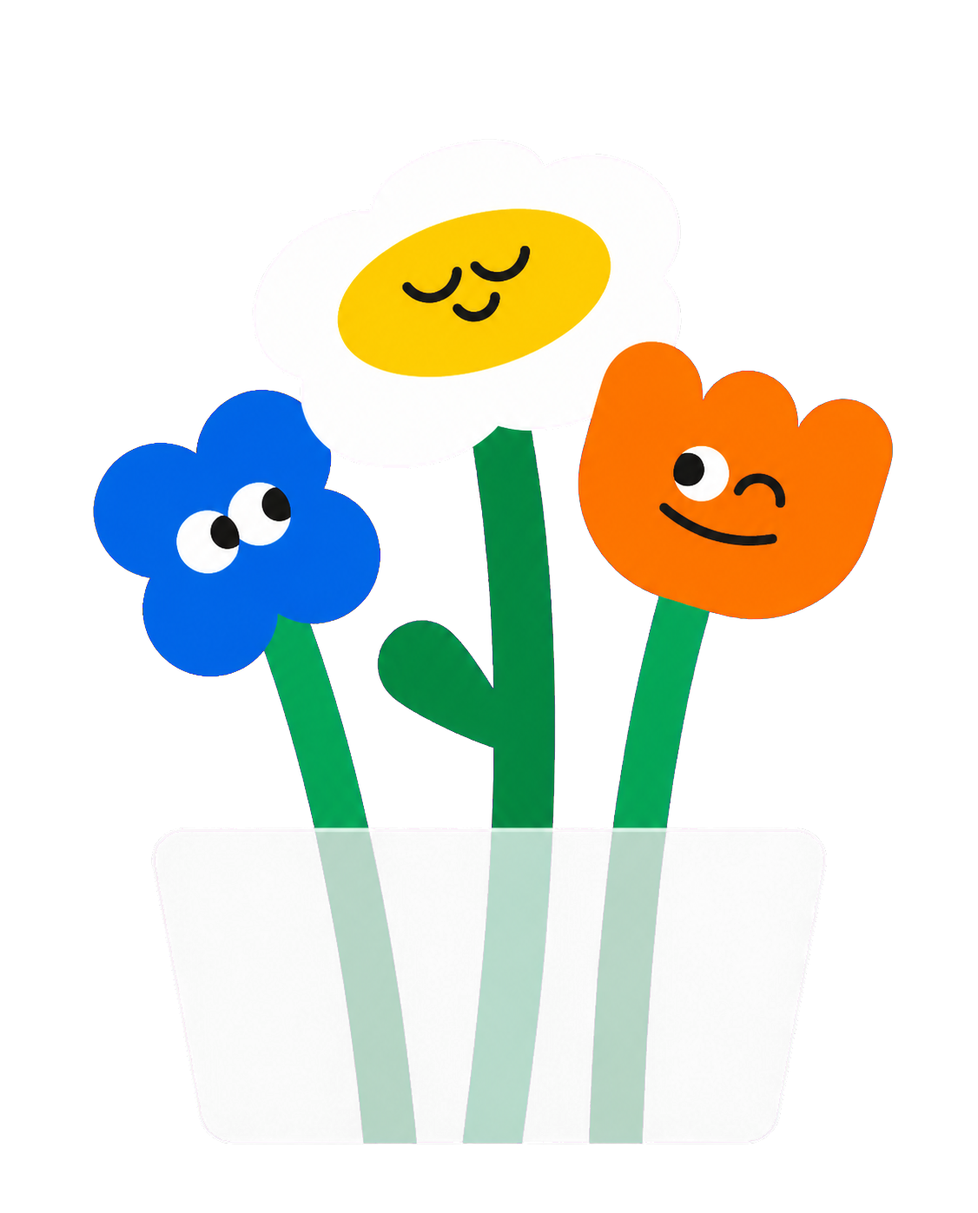
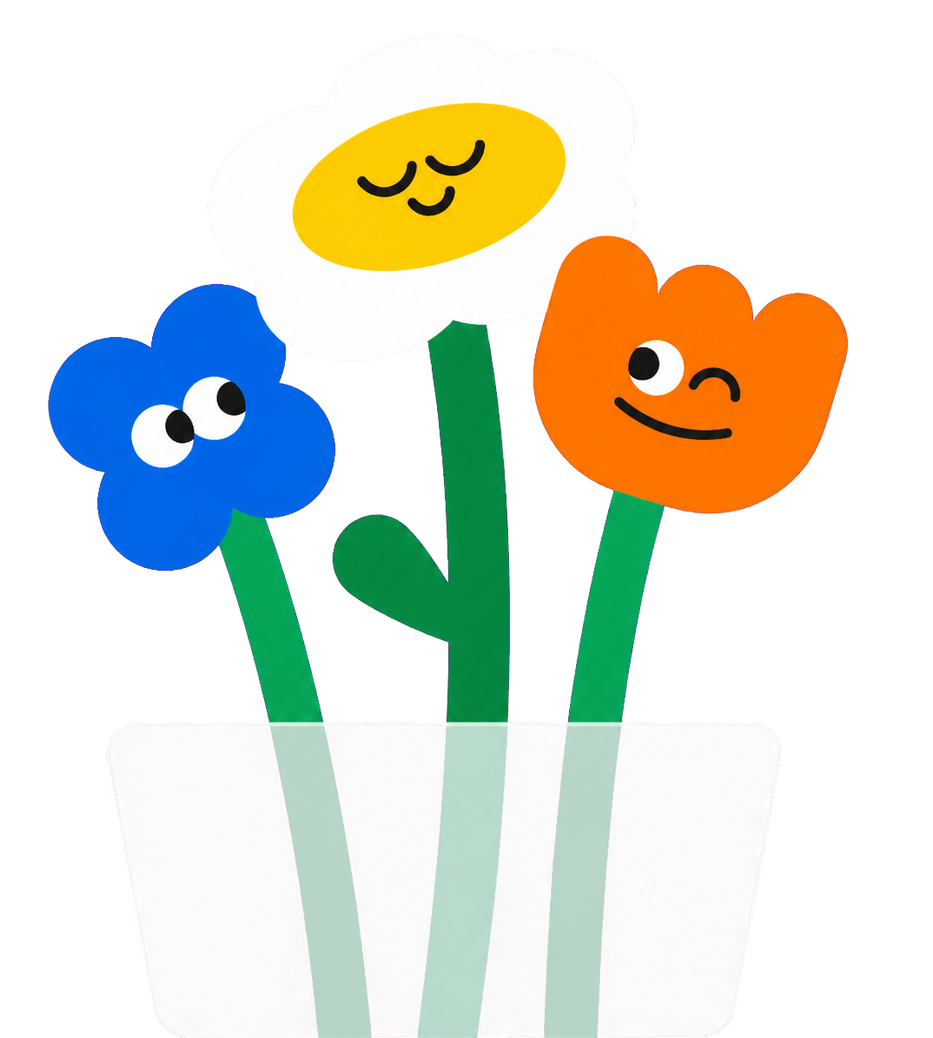
index

Changed region(s): [[0.0307, 0.0929, 0.9218, 1.0]]

diff --git a/index.html b/index.html
@@ -5,23 +5,21 @@
   <link rel="manifest" href="manifest.webmanifest"><link rel="icon" href="icon.png" type="image/png"><link rel="apple-touch-icon" href="icon.png">
   <title>IELTI · 今日学习</title>
   <script>document.documentElement.classList.add('ielti-booting');try{var m=localStorage.getItem('ielti_display_mode_v1')||localStorage.getItem('ielti_theme_v1');if(['light','dark','eink'].indexOf(m)>-1){document.documentElement.dataset.display=m;document.documentElement.dataset.theme=m==='dark'?'dark':'light';document.documentElement.classList.toggle('eink-mode',m==='eink');}}catch(e){}setTimeout(()=>document.documentElement.classList.remove('ielti-booting'),1200);</script>
-<link rel="stylesheet" href="apple-ui.css?v=20260729-31">
+<link rel="stylesheet" href="apple-ui.css?v=20260730-33">
   <link rel="stylesheet" href="eink-ui.css?v=20260728-5">
   <style>
     *{box-sizing:border-box}body{margin:0;font:15px/1.5 system-ui,-apple-system,"PingFang SC",sans-serif}.wrap{max-width:1050px;margin:auto;padding:32px 20px 92px}.top{display:flex;align-items:flex-end;justify-content:space-between;gap:1rem;margin:0 0 1.4rem}.eyebrow{font-size:.72rem;letter-spacing:.15em;color:var(--apple-blue);font-weight:850}.top h1{margin:.2rem 0 .35rem;font-size:clamp(2.45rem,7vw,4.6rem);line-height:.96;letter-spacing:-.055em;font-weight:780}.date{color:var(--apple-secondary);font-size:.92rem}.hero{position:relative;overflow:hidden;display:grid;grid-template-columns:minmax(0,1.25fr) minmax(18rem,.75fr);gap:1rem;padding:1.25rem;border:1px solid var(--apple-line);border-radius:2rem;background:linear-gradient(145deg,color-mix(in srgb,var(--apple-blue) 7%,var(--apple-surface)),var(--apple-surface) 56%,color-mix(in srgb,var(--apple-green) 4%,var(--apple-surface)));box-shadow:var(--apple-shadow)}.hero h2{margin:0 0 .45rem;font-size:clamp(1.65rem,4.2vw,2.45rem);line-height:1.05;letter-spacing:-.04em}.hero p{margin:0;color:var(--apple-secondary)}.hero-actions{display:flex;gap:.65rem;flex-wrap:wrap;margin-top:1rem}.btn{appearance:none;display:inline-flex;align-items:center;justify-content:center;min-height:2.55rem;padding:.68rem 1rem;border:1px solid var(--apple-line);border-radius:999px;background:var(--apple-solid);color:var(--apple-ink);font:inherit;font-size:.9rem;font-weight:760;text-decoration:none;cursor:pointer}.btn.primary{border-color:var(--apple-blue);background:var(--apple-blue);color:#fff;box-shadow:0 8px 22px color-mix(in srgb,var(--apple-blue) 26%,transparent)}.btn:active{transform:scale(.98)}.status-card{display:grid;gap:.65rem}.status-pill{padding:.9rem 1rem;border:1px solid var(--apple-line);border-radius:1.15rem;background:color-mix(in srgb,var(--apple-solid) 82%,transparent)}.status-pill small{display:block;color:var(--apple-secondary);font-size:.75rem;font-weight:720}.status-pill b{display:block;margin-top:.15rem;font-size:1.35rem;line-height:1.1}.section{margin-top:1.1rem}.section-head{display:flex;align-items:end;justify-content:space-between;gap:1rem;margin:0 0 .7rem}.section h3{margin:0;font-size:1.18rem;letter-spacing:-.02em}.section-note{color:var(--apple-secondary);font-size:.82rem}.today-panel,.diagnosis,.data-manager{border:1px solid var(--apple-line);border-radius:1.55rem;background:var(--apple-surface);box-shadow:0 12px 34px rgba(0,0,0,.055);backdrop-filter:blur(22px) saturate(170%);-webkit-backdrop-filter:blur(22px) saturate(170%)}.today-panel{padding:.45rem 1rem}.task-list{list-style:none;margin:0;padding:0}.task-list li{display:flex;align-items:center;gap:.65rem;min-height:2.9rem;border-bottom:1px solid var(--apple-line)}.task-list li:last-child{border-bottom:0}.task-list input{width:1.05rem;height:1.05rem;accent-color:var(--apple-blue);flex:0 0 auto}.task-main{min-width:0;flex:1}.task-title{display:block;font-weight:720;white-space:nowrap;overflow:hidden;text-overflow:ellipsis}.task-sub{display:block;color:var(--apple-secondary);font-size:.78rem;white-space:nowrap;overflow:hidden;text-overflow:ellipsis}.task-open{color:var(--apple-blue);font-size:.78rem;text-decoration:none;font-weight:750;white-space:nowrap}.task-list li.done .task-title{text-decoration:line-through;color:var(--apple-green)}.task-list li.done .task-sub{color:var(--apple-secondary)}.dash-grid{display:grid;grid-template-columns:repeat(4,minmax(0,1fr));gap:.75rem}.metric{min-height:8rem;padding:1rem;border:1px solid var(--apple-line);border-radius:1.35rem;background:var(--apple-surface);color:inherit;text-decoration:none}.metric span{display:block;color:var(--apple-secondary);font-size:.78rem;font-weight:680}.metric b{display:block;margin:.35rem 0;font-size:clamp(1.35rem,2.8vw,1.9rem);line-height:1.05;letter-spacing:-.035em}.metric p{margin:0;color:var(--apple-secondary);font-size:.82rem;line-height:1.42}.diagnosis{padding:1rem 1.1rem}.diagnosis b{display:block;margin-bottom:.2rem;font-size:1.05rem}.diagnosis p{margin:0;color:var(--apple-secondary)}.week-dots{display:flex;gap:.45rem;align-items:center;padding:.95rem 1rem;border:1px solid var(--apple-line);border-radius:1.35rem;background:var(--apple-surface)}.day-dot{display:grid;place-items:center;width:2rem;height:2rem;border-radius:50%;background:color-mix(in srgb,var(--apple-secondary) 10%,transparent);color:var(--apple-secondary);font-size:.68rem;font-weight:800}.day-dot.active{background:var(--apple-blue);color:#fff}.tools{display:grid;grid-template-columns:repeat(4,minmax(0,1fr));gap:.75rem}.tool{padding:1rem;border:1px solid var(--apple-line);border-radius:1.25rem;background:var(--apple-solid);color:var(--apple-ink);text-decoration:none;font-weight:760}.data-manager{display:flex;align-items:center;justify-content:space-between;gap:1rem;padding:1rem 1.1rem}.data-manager h3{margin:0 0 .2rem}.data-manager p{margin:0;color:var(--apple-secondary);font-size:.84rem}.data-actions{display:flex;gap:.5rem;flex:none}.backup-status{min-height:1rem;margin-top:.25rem;color:var(--apple-secondary);font-size:.76rem}.foot{margin-top:1rem;color:var(--apple-secondary);font-size:.8rem;text-align:center}@media(max-width:860px){.hero{grid-template-columns:1fr}.dash-grid,.tools{grid-template-columns:repeat(2,minmax(0,1fr))}}@media(max-width:720px){.wrap{padding:.65rem .75rem 2rem}.top{margin-bottom:.55rem}.top h1{font-size:clamp(2rem,10vw,2.55rem)}.date{display:none}.hero{padding:1rem;border-radius:1.45rem}.hero h2{font-size:1.55rem}.status-card{grid-template-columns:repeat(3,minmax(0,1fr));gap:.45rem}.status-pill{padding:.75rem .65rem}.status-pill b{font-size:1.08rem}.today-panel{padding:.25rem .8rem}.task-title{font-size:.92rem}.dash-grid{gap:.55rem}.metric{min-height:7rem;padding:.85rem}.metric b{font-size:1.32rem}.tools{gap:.55rem}.tool{padding:.85rem;font-size:.9rem}.data-manager{align-items:flex-start;flex-direction:column}.data-actions{width:100%}.data-actions .btn{flex:1;padding:.6rem .7rem;font-size:.82rem}.week-dots{justify-content:space-between}.day-dot{width:1.78rem;height:1.78rem}}
-    body.page-today .hero{grid-template-columns:minmax(0,1fr) 12rem!important;align-items:start!important;gap:.6rem!important;height:15.75rem!important;min-height:15.75rem!important;padding:1rem 1.45rem!important}.hero h2{margin-bottom:.16rem;white-space:nowrap;font-size:clamp(1.25rem,3.85vw,2.2rem)}.hero p{white-space:nowrap;font-size:clamp(.63rem,1.8vw,.95rem);letter-spacing:-.025em}.hero-actions{margin-top:.45rem}.hero .btn{min-height:2.25rem;padding:.5rem .85rem}.hero-flowers{position:relative;z-index:3;align-self:end;display:flex;align-items:flex-end;justify-content:center;min-width:0;height:80%;pointer-events:none}.hero-flowers img{display:block;width:auto;height:100%;max-width:100%;object-fit:contain;object-position:center bottom}.trend-grid,.trend-detail-grid{display:grid;grid-template-columns:repeat(2,minmax(0,1fr));gap:.75rem}.trend-detail-grid{grid-template-columns:repeat(3,minmax(0,1fr));margin-top:.75rem}.trend-card{padding:1rem;border:1px solid var(--apple-line);border-radius:1.35rem;background:var(--apple-surface);box-shadow:0 12px 34px rgba(0,0,0,.055)}.trend-card h4{margin:0;color:var(--apple-ink);font-size:.95rem}.trend-card p{margin:.16rem 0 .8rem;color:var(--apple-secondary);font-size:.76rem}.trend-chart{display:grid;grid-template-columns:repeat(7,1fr);align-items:end;gap:.35rem;height:5.25rem}.trend-day{display:grid;grid-template-rows:1fr auto;gap:.25rem;height:100%;text-align:center;color:var(--apple-secondary);font-size:.62rem}.trend-bar-wrap{display:flex;align-items:end;height:100%;border-radius:.5rem;background:color-mix(in srgb,var(--apple-secondary) 7%,transparent);overflow:hidden}.trend-bar{width:100%;min-height:3px;border-radius:.5rem;background:linear-gradient(180deg,var(--apple-blue),color-mix(in srgb,var(--apple-blue) 72%,var(--apple-green)));}.trend-card.words .trend-bar,.trend-card.mastery .trend-bar{background:linear-gradient(180deg,var(--apple-green),color-mix(in srgb,var(--apple-green) 70%,var(--apple-blue)))}.trend-card.forget .trend-bar{background:linear-gradient(180deg,#ef9c37,#d75843)}.trend-stat{display:flex;align-items:baseline;gap:.35rem;margin:.7rem 0 0}.trend-stat b{font-size:1.45rem;letter-spacing:-.04em}.trend-stat span{color:var(--apple-secondary);font-size:.75rem}.trend-pairs{display:grid;grid-template-columns:1fr 1fr;gap:.5rem;margin-top:.85rem}.trend-pairs span{padding:.5rem;border-radius:.7rem;background:color-mix(in srgb,var(--apple-secondary) 8%,transparent);font-size:.76rem;color:var(--apple-secondary)}.trend-pairs b{display:block;color:var(--apple-ink);font-size:1.05rem}@media(max-width:720px){body.page-today .hero{grid-template-columns:minmax(0,1fr) 7.3rem!important;height:11.4rem!important;min-height:11.4rem!important;padding:.72rem .82rem!important}.hero h2{font-size:clamp(1.02rem,4.3vw,1.34rem)}.hero p{font-size:.54rem}.hero .btn{min-height:2.08rem;padding:.43rem .68rem;font-size:.78rem}.hero-flowers{height:80%}.trend-grid{grid-template-columns:1fr}.trend-detail-grid{grid-template-columns:repeat(2,minmax(0,1fr))}.trend-chart{height:4.6rem}}
+    body.page-today .hero{grid-template-columns:minmax(0,1fr) 12rem!important;align-items:start!important;gap:.6rem!important;height:15.75rem!important;min-height:15.75rem!important;padding:1rem 1.45rem!important}.hero h2{margin-bottom:.16rem;white-space:nowrap;font-size:clamp(1.25rem,3.85vw,2.2rem)}.hero p{white-space:nowrap;font-size:clamp(.63rem,1.8vw,.95rem);letter-spacing:-.025em}.hero-actions{margin-top:.45rem}.hero .btn{min-height:2.25rem;padding:.5rem .85rem}.hero-copy{transform:translateY(12px)}.hero-flowers{position:absolute;z-index:3;right:1.45rem;bottom:0;display:flex;align-items:flex-end;justify-content:center;min-width:0;height:calc(80% + 20px);pointer-events:none}.hero-flowers img{display:block;width:auto;height:100%;max-width:100%;object-fit:contain;object-position:center bottom}.today-layout{display:grid;grid-template-columns:minmax(0,1.65fr) minmax(15rem,.85fr);gap:.75rem;align-items:stretch}.today-work{display:flex;min-width:0;flex-direction:column}.today-work .today-panel{flex:1}.task-panel-head{display:flex;align-items:end;justify-content:space-between;gap:1rem;padding:.55rem 0 .35rem}.task-panel-head h3{margin:0;font-size:1.18rem;letter-spacing:-.02em}.today-side{display:grid;grid-template-rows:1fr 1fr;gap:.75rem;min-width:0}.week-progress-card{display:flex;min-height:0;flex-direction:column;justify-content:center;padding:1rem 1.1rem;border:1px solid var(--apple-line);border-radius:1.55rem;background:var(--apple-surface);box-shadow:0 12px 34px rgba(0,0,0,.055);backdrop-filter:blur(22px) saturate(170%);-webkit-backdrop-filter:blur(22px) saturate(170%)}.week-progress-card span{color:var(--apple-secondary);font-size:.78rem;font-weight:720}.week-progress-card b{display:block;margin:.2rem 0;font-size:1.55rem;line-height:1.1;letter-spacing:-.035em}.week-progress-card p{margin:0;color:var(--apple-secondary);font-size:.78rem}.week-progress-track{height:.42rem;margin-top:.65rem;overflow:hidden;border-radius:999px;background:color-mix(in srgb,var(--apple-blue) 13%,transparent)}.week-progress-track i{display:block;height:100%;border-radius:inherit;background:var(--apple-blue);transition:width .35s ease}.today-side .diagnosis{display:flex;min-height:0;flex-direction:column;justify-content:center;padding:1rem 1.1rem}.trend-grid,.trend-detail-grid{display:grid;grid-template-columns:repeat(2,minmax(0,1fr));gap:.75rem}.trend-detail-grid{grid-template-columns:repeat(3,minmax(0,1fr));margin-top:.75rem}.trend-card{padding:1rem;border:1px solid var(--apple-line);border-radius:1.35rem;background:var(--apple-surface);box-shadow:0 12px 34px rgba(0,0,0,.055)}.trend-card h4{margin:0;color:var(--apple-ink);font-size:.95rem}.trend-card p{margin:.16rem 0 .8rem;color:var(--apple-secondary);font-size:.76rem}.trend-chart{display:grid;grid-template-columns:repeat(7,1fr);align-items:end;gap:.35rem;height:5.25rem}.trend-day{display:grid;grid-template-rows:1fr auto;gap:.25rem;height:100%;text-align:center;color:var(--apple-secondary);font-size:.62rem}.trend-bar-wrap{display:flex;align-items:end;height:100%;border-radius:.5rem;background:color-mix(in srgb,var(--apple-secondary) 7%,transparent);overflow:hidden}.trend-bar{width:100%;min-height:3px;border-radius:.5rem;background:linear-gradient(180deg,var(--apple-blue),color-mix(in srgb,var(--apple-blue) 72%,var(--apple-green)));}.trend-card.words .trend-bar,.trend-card.mastery .trend-bar{background:linear-gradient(180deg,var(--apple-green),color-mix(in srgb,var(--apple-green) 70%,var(--apple-blue)))}.trend-card.forget .trend-bar{background:linear-gradient(180deg,#ef9c37,#d75843)}.trend-stat{display:flex;align-items:baseline;gap:.35rem;margin:.7rem 0 0}.trend-pairs{display:grid;grid-template-columns:1fr 1fr;gap:.5rem;margin-top:.85rem}.trend-pairs span{padding:.5rem;border-radius:.7rem;background:color-mix(in srgb,var(--apple-secondary) 8%,transparent);font-size:.76rem;color:var(--apple-secondary)}.trend-pairs b{display:block;color:var(--apple-ink);font-size:1.05rem}@media(max-width:720px){body.page-today .hero{grid-template-columns:minmax(0,1fr) 7.3rem!important;height:11.4rem!important;min-height:11.4rem!important;padding:.72rem .82rem!important}.hero h2{font-size:clamp(1.02rem,4.3vw,1.34rem)}.hero p{font-size:.54rem}.hero .btn{min-height:2.08rem;padding:.43rem .68rem;font-size:.78rem}.hero-flowers{right:.82rem;height:calc(80% + 20px)}.today-layout{grid-template-columns:1fr}.today-side{grid-template-columns:1fr 1fr;grid-template-rows:none}.week-progress-card,.today-side .diagnosis{min-height:7rem;padding:.85rem}.trend-grid{grid-template-columns:1fr}.trend-detail-grid{grid-template-columns:repeat(2,minmax(0,1fr))}.trend-chart{height:4.6rem}}
   </style>
 </head>
 <body class="apple-ui page-today"><main class="wrap">
   <header class="top"><div><div class="eyebrow">IELTI STUDY DESK</div><h1>今日学习</h1><div class="date">目标：听力 / 阅读 / 口语 / 写作 四科 6.0-6.5 分</div></div></header>
 
   <section class="hero" aria-labelledby="heroTitle">
-    <div><h2 id="heroTitle">正在读取学习状态…</h2><p id="heroText">我会把今天最该做的事情放在这里。</p><div class="hero-actions"><a class="btn primary" id="primaryAction" href="ielts-roadmap.html">开始今日任务</a><a class="btn" href="ielts_word_memory_v2_ipa.html">去复习单词</a></div></div><div class="hero-flowers" aria-hidden="true"><img src="hero-flowers.png" alt=""></div>
+    <div class="hero-copy"><h2 id="heroTitle">正在读取学习状态…</h2><p id="heroText">我会把今天最该做的事情放在这里。</p><div class="hero-actions"><a class="btn primary" id="primaryAction" href="ielts-roadmap.html">开始今日任务</a><a class="btn" href="ielts_word_memory_v2_ipa.html">去复习单词</a></div></div><div class="hero-flowers" aria-hidden="true"><img src="hero-flowers.png" alt=""></div>
   </section>
 
-  <section class="section"><div class="section-head"><h3>今日任务</h3><span class="section-note" id="todayMeta">可直接勾选，同步到路线图</span></div><div class="today-panel"><ul class="task-list" id="todayTasks"></ul></div></section>
-
-  <section class="section"><div class="diagnosis"><b id="diagnosisTitle">学习状态</b><p id="diagnosisText">正在分析课程、词汇和最近学习节奏。</p></div></section>
+  <section class="section today-layout"><div class="today-work"><div class="today-panel"><div class="task-panel-head"><h3>今日任务</h3><span class="section-note">可直接勾选，同步到路线图</span></div><ul class="task-list" id="todayTasks"></ul></div></div><aside class="today-side"><section class="week-progress-card"><span id="weekProgressTitle">本周进度</span><b id="weekProgressValue">0 / 0</b><p id="weekProgressText">课程完成情况</p><div class="week-progress-track" aria-hidden="true"><i id="weekProgressBar" style="width:0%"></i></div></section><section class="diagnosis"><b id="diagnosisTitle">学习状态</b><p id="diagnosisText">正在分析课程、词汇和最近学习节奏。</p></section></aside></section>
 
   <section class="section"><div class="section-head"><h3>总体进度</h3><span class="section-note">点击进入对应页面</span></div><div class="dash-grid">
     <a class="metric" href="ielts-roadmap.html"><span>课程路线</span><b id="courseProgress">0 / 393</b><p id="courseHint">继续今天的课程</p></a>
@@ -51,12 +49,13 @@ function totals(progress){let total=0,done=0;weeks.forEach(w=>w.days.forEach(day
 function todayPlan(){const idx=dayIndex(),weekNum=Math.min(26,Math.floor(idx/7)+1),day=idx%7,w=weeks[weekNum-1];return{weekNum,day,w,videos:w?.days?.[day]||[]}}
 function mediaUrl(path){return window.IELTI?.media?.resolve?IELTI.media.resolve(path):path}
 function playerUrl(video){const src=mediaUrl(video.url);return location.protocol==='file:'||(location.protocol==='https:'&&src.startsWith('http:'))?src:`ielts-video-player.html?src=${encodeURIComponent(src)}&title=${encodeURIComponent(video.title)}`}
-function renderTasks(progress,s){const plan=todayPlan(),items=[];plan.videos.forEach(v=>items.push({type:'video',id:v.id,duration:v.dur||0,title:v.title,sub:`${v.section}${v.dur?' · '+fmtDur(v.dur):''}`,url:playerUrl(v),checked:!!progress[vidKey(v.id)]}));if(plan.w?.vocab)items.push({type:'vocab',id:`${plan.weekNum}-${plan.day}`,title:'词汇任务',sub:plan.w.vocab,url:'ielts-core-vocabulary.html',checked:!!progress[vocKey(plan.weekNum,plan.day)]});if(s.due>0)items.push({type:'review',id:'review',title:`复习 ${s.due} 个到期单词`,sub:'间隔重复优先处理快要忘记的词',url:'ielts_word_memory_v2_ipa.html',checked:false});if(!items.length)items.push({type:'empty',id:'empty',title:'今天没有安排课程',sub:'可以做词汇复习，或回到路线图查看下一周。',url:'ielts-roadmap.html',checked:false});$('todayTasks').innerHTML=items.map(item=>`<li class="${item.checked?'done':''}" data-type="${item.type}" data-id="${item.id}" data-duration="${item.duration||0}">${item.type==='empty'?'':`<input type="checkbox" ${item.checked?'checked':''} ${item.type==='review'?'disabled':''}>`}<span class="task-main"><span class="task-title">${item.title}</span><span class="task-sub">${item.sub}</span></span><a class="task-open" href="${item.url}" target="_blank" rel="noopener">打开</a></li>`).join('');$('todayMeta').textContent=`第 ${plan.weekNum} 周 · 今日 ${plan.videos.length} 个课程${s.due?` · ${s.due} 个复习`:''}`}
+function renderTasks(progress,s){const plan=todayPlan(),items=[];plan.videos.forEach(v=>items.push({type:'video',id:v.id,duration:v.dur||0,title:v.title,sub:`${v.section}${v.dur?' · '+fmtDur(v.dur):''}`,url:playerUrl(v),checked:!!progress[vidKey(v.id)]}));if(plan.w?.vocab)items.push({type:'vocab',id:`${plan.weekNum}-${plan.day}`,title:'词汇任务',sub:plan.w.vocab,url:'ielts-core-vocabulary.html',checked:!!progress[vocKey(plan.weekNum,plan.day)]});if(s.due>0)items.push({type:'review',id:'review',title:`复习 ${s.due} 个到期单词`,sub:'间隔重复优先处理快要忘记的词',url:'ielts_word_memory_v2_ipa.html',checked:false});if(!items.length)items.push({type:'empty',id:'empty',title:'今天没有安排课程',sub:'可以做词汇复习，或回到路线图查看下一周。',url:'ielts-roadmap.html',checked:false});$('todayTasks').innerHTML=items.map(item=>`<li class="${item.checked?'done':''}" data-type="${item.type}" data-id="${item.id}" data-duration="${item.duration||0}">${item.type==='empty'?'':`<input type="checkbox" ${item.checked?'checked':''} ${item.type==='review'?'disabled':''}>`}<span class="task-main"><span class="task-title">${item.title}</span><span class="task-sub">${item.sub}</span></span><a class="task-open" href="${item.url}" target="_blank" rel="noopener">打开</a></li>`).join('')}
+function renderWeekProgress(plan,progress){const videos=(plan.w?.days||[]).flat(),done=videos.filter(v=>progress[vidKey(v.id)]).length,total=videos.length,pct=total?Math.round(done/total*100):0;$('weekProgressTitle').textContent='本周进度';$('weekProgressValue').textContent=`${done} / ${total}`;$('weekProgressText').textContent=total?`已完成 ${pct}% 的本周课程`:'本周没有安排新课程';$('weekProgressBar').style.width=pct+'%'}
 function renderWeekDots(model){const today=today0();const labels=['一','二','三','四','五','六','日'];let html='';for(let i=6;i>=0;i--){const d=new Date(today);d.setDate(d.getDate()-i);const iso=todayISOFor(d),a=model.activity?.[iso]||{},on=(a.reviews||0)+(a.courses||0)+(a.studySeconds||0)>0;html+=`<span class="day-dot ${on?'active':''}" title="${iso}">${labels[(d.getDay()+6)%7]}</span>`}$('weekDots').innerHTML=html}
 function recentActivity(model){const now=today0(),labels=['日','一','二','三','四','五','六'];return Array.from({length:7},(_,i)=>{const d=new Date(now);d.setDate(d.getDate()-6+i);return{label:labels[d.getDay()],activity:model.activity?.[todayISOFor(d)]||{}}})}function todayISOFor(d){const p=n=>String(n).padStart(2,'0');return `${d.getFullYear()}-${p(d.getMonth()+1)}-${p(d.getDate())}`}function fmtMinutes(seconds){const minutes=Math.round((seconds||0)/60);return minutes<60?`${minutes} 分钟`:`${Math.floor(minutes/60)} 小时${minutes%60?` ${minutes%60} 分`:''}`}function renderTrend(id,values){const max=Math.max(1,...values.map(x=>x.value));$(id).innerHTML=values.map(x=>`<div class="trend-day" title="${x.label}：${x.tip}"><span class="trend-bar-wrap"><i class="trend-bar" style="height:${Math.max(3,Math.round(x.value/max*100))}%"></i></span><span>${x.label}</span></div>`).join('')}
 function renderTrends(model){const days=recentActivity(model),seconds=days.map(d=>({label:d.label,value:d.activity.courseSeconds||0,tip:fmtMinutes(d.activity.courseSeconds)})),words=days.map(d=>({label:d.label,value:d.activity.reviews||0,tip:`${d.activity.reviews||0} 个` })),accuracy=days.map(d=>{const all=(d.activity.dictCorrect||0)+(d.activity.dictWrong||0),value=all?Math.round((d.activity.dictCorrect||0)/all*100):0;return{label:d.label,value,tip:all?`${value}%`:'暂无听写'}}),forget=days.map(d=>{const all=d.activity.reviews||0,value=all?Math.round((d.activity.forgotten||0)/all*100):0;return{label:d.label,value,tip:all?`${value}%`:'暂无复习'}}),mastery=days.map(d=>({label:d.label,value:d.activity.newMastered||0,tip:`${d.activity.newMastered||0} 个`}));renderTrend('timeTrend',seconds);renderTrend('wordTrend',words);renderTrend('accuracyTrend',accuracy);renderTrend('forgetTrend',forget);renderTrend('masteryTrend',mastery);$('timeTrendSummary').textContent=`共 ${fmtMinutes(seconds.reduce((n,d)=>n+d.value,0))}`;$('wordTrendSummary').textContent=`共 ${words.reduce((n,d)=>n+d.value,0)} 个`;const totalCorrect=days.reduce((n,d)=>n+(d.activity.dictCorrect||0),0),totalDict=totalCorrect+days.reduce((n,d)=>n+(d.activity.dictWrong||0),0),totalForget=days.reduce((n,d)=>n+(d.activity.forgotten||0),0),totalReviews=words.reduce((n,d)=>n+d.value,0),totalMastered=mastery.reduce((n,d)=>n+d.value,0),totalNew=days.reduce((n,d)=>n+(d.activity.newWords||0),0),totalReviewWords=days.reduce((n,d)=>n+(d.activity.reviewWords||0),0);$('accuracyTrendSummary').textContent=totalDict?`总体 ${Math.round(totalCorrect/totalDict*100)}% · ${totalDict} 次听写`:'开始听写后显示';$('forgetTrendSummary').textContent=totalReviews?`总体 ${Math.round(totalForget/totalReviews*100)}% · ${totalForget} 次`:'完成复习后显示';$('masteryTrendSummary').textContent=`新增 ${totalMastered} 个`;$('mixNew').textContent=totalNew;$('mixReview').textContent=totalReviewWords;const periods={morning:0,afternoon:0,evening:0};days.forEach(d=>Object.entries(d.activity.timeByPeriod||{}).forEach(([key,value])=>periods[key]=(periods[key]||0)+value));const active=Object.entries(periods).sort((a,b)=>b[1]-a[1])[0],periodLabel={morning:'早晨',afternoon:'下午',evening:'晚上'};$('activePeriod').textContent=active?.[1]?periodLabel[active[0]]:'—';$('activePeriodDetail').textContent=active?.[1]?fmtMinutes(active[1]):'开始学习后显示';$('classDeckTotal').textContent=Object.values(model.vocab?.class||{}).filter(card=>card.mastered).length;$('coreDeckTotal').textContent=Object.values(model.vocab?.core||{}).filter(card=>card.mastered).length}
 function renderDiagnosis(s,total,plan){let title='学习状态正常',text='今天照着任务清单走就可以，不需要额外增加压力。';const expected=Math.min(total.total,Math.round(total.total*(Math.min(182,s.day)/182)));const lag=expected-total.done;if(s.due>=30){title='词汇复习有积压';text=`现在有 ${s.due} 个到期词，建议先复习，再看新课程。`}else if(lag>12){title='课程进度略落后';text=`按 26 周计划估算，大约落后 ${lag} 个视频。今天优先完成课程，不急着加新任务。`}else if(plan.videos.length===0){title='今天适合复盘';text='路线图今天没有具体视频，可以做词汇复习、错题整理或字母组合。'}else if(total.done>=expected){title='节奏不错';text='课程进度跟得上，保持每天一点点推进就很好。'}$('diagnosisTitle').textContent=title;$('diagnosisText').textContent=text}
-function renderHome(){const progress=readProgress();IELTI.backfillCourseDurations(weeks,progress,localStorage.getItem(START_KEY)||'');const s=IELTI.summary(),model=IELTI.get(),phonics=IELTI.getPhonics(),total=totals(progress),plan=todayPlan();$('heroTitle').textContent=s.due?`先复习 ${s.due} 个到期单词`:`第 ${s.week} 周，今天继续推进`; $('heroText').textContent=`第 ${s.week} 周 ｜ 今日建议：${plan.videos.length} 个课程${s.due?` + ${s.due} 个到期复习`:''}。完成 ${total.done}/${total.total} 个视频。`;$('primaryAction').href=plan.videos.length?'ielts-roadmap.html':'ielts_word_memory_v2_ipa.html';$('courseProgress').textContent=`${total.done} / ${total.total}`;$('reviewProgress').textContent=s.due+' 到期';$('vocabProgress').textContent=(s.coreMastered+s.classMastered)+' 个';$('phonicsProgress').textContent=`${phonics.learned.length} / 121`;$('courseHint').textContent=`当前第 ${s.week} 周 · 今日 ${plan.videos.length} 个课程`;renderTasks(progress,s);renderDiagnosis(s,total,plan);renderWeekDots(model);renderTrends(model)}
+function renderHome(){const progress=readProgress();IELTI.backfillCourseDurations(weeks,progress,localStorage.getItem(START_KEY)||'');const s=IELTI.summary(),model=IELTI.get(),phonics=IELTI.getPhonics(),total=totals(progress),plan=todayPlan();$('heroTitle').textContent=s.due?`先复习 ${s.due} 个到期单词`:'今天继续推进'; $('heroText').textContent=`今日建议：${plan.videos.length} 个课程${s.due?` + ${s.due} 个到期复习`:''}。完成 ${total.done}/${total.total} 个视频。`;$('primaryAction').href=plan.videos.length?'ielts-roadmap.html':'ielts_word_memory_v2_ipa.html';$('courseProgress').textContent=`${total.done} / ${total.total}`;$('reviewProgress').textContent=s.due+' 到期';$('vocabProgress').textContent=(s.coreMastered+s.classMastered)+' 个';$('phonicsProgress').textContent=`${phonics.learned.length} / 121`;$('courseHint').textContent=`今日 ${plan.videos.length} 个课程`;renderTasks(progress,s);renderWeekProgress(plan,progress);renderDiagnosis(s,total,plan);renderWeekDots(model);renderTrends(model)}
 $('todayTasks').addEventListener('change',event=>{const box=event.target;if(!box.matches('input[type="checkbox"]'))return;const li=box.closest('li'),progress=readProgress(),plan=todayPlan();if(box.checked&&li.dataset.type==='video')IELTI.recordCourseVideo(Number(li.dataset.duration)||0,li.dataset.id);if(li.dataset.type==='video')progress[vidKey(li.dataset.id)]=box.checked;if(li.dataset.type==='vocab')progress[vocKey(plan.weekNum,plan.day)]=box.checked;li.classList.toggle('done',box.checked);saveRoadmapProgress(progress);renderHome()});
 renderHome();window.addEventListener('ielti-progress',renderHome);
 const backupStatus=$('backupStatus'),importAllFile=$('importAllFile');$('exportAllBtn').onclick=()=>{const count=IELTI.backup.export();backupStatus.textContent='已导出 '+count+' 项学习数据。'};$('importAllBtn').onclick=()=>importAllFile.click();importAllFile.onchange=async()=>{const file=importAllFile.files[0];importAllFile.value='';if(!file)return;if(!confirm('恢复备份会覆盖此浏览器中的学习进度，是否继续？'))return;try{const count=await IELTI.backup.import(file);backupStatus.textContent='已恢复 '+count+' 项学习数据，正在刷新…';location.reload()}catch(error){backupStatus.textContent='恢复失败：'+error.message}};

diff --git a/ielts_word_memory_v2_ipa.html b/ielts_word_memory_v2_ipa.html
@@ -7,7 +7,7 @@
 <style>
 :root{--bg:#f4f1ea;--panel:#fffdf8;--ink:#18231f;--muted:#6b756f;--green:#1f6b55;--lime:#dce9a8;--line:#d9ded6;--red:#c74c3c;--amber:#d18a29;--blue:#3977a8;--shadow:0 18px 50px rgba(35,48,42,.11)}*{box-sizing:border-box}body{margin:0;background:radial-gradient(circle at 15% 0,#e8efd8 0,transparent 34%),var(--bg);color:var(--ink);font-family:-apple-system,BlinkMacSystemFont,"Segoe UI","PingFang SC",sans-serif}.app{max-width:1120px;margin:auto;padding:28px 20px 50px}.top{display:flex;justify-content:space-between;gap:20px;align-items:center}.brand small{display:block;color:var(--green);font-weight:800;letter-spacing:.16em}.brand h1{margin:5px 0;font-family:Georgia,"Songti SC",serif;font-size:clamp(27px,4vw,43px);font-weight:600}.brand p{margin:0;color:var(--muted)}button,select,input{font:inherit}.pill,.btn{border:1px solid var(--line);background:var(--panel);border-radius:999px;padding:11px 16px;color:var(--ink);cursor:pointer}.btn.primary{background:var(--green);border-color:var(--green);color:#fff;font-weight:750}.btn:hover{transform:translateY(-1px)}.stats{display:grid;grid-template-columns:repeat(4,1fr);gap:12px;margin:26px 0}.stat{background:rgba(255,253,248,.78);border:1px solid var(--line);border-radius:18px;padding:17px}.stat b{display:block;font-size:27px}.stat span{font-size:13px;color:var(--muted)}.layout{display:grid;grid-template-columns:1fr 300px;gap:18px}.card,.side{background:var(--panel);border:1px solid var(--line);border-radius:26px;box-shadow:var(--shadow)}.study{min-height:515px;padding:26px;display:flex;flex-direction:column}.study-head{display:flex;justify-content:space-between;align-items:center;color:var(--muted);font-size:14px}.progress{height:7px;background:#e5e7df;border-radius:9px;margin:13px 0 8px;overflow:hidden}.progress i{display:block;height:100%;background:var(--green);width:0}.wordarea{flex:1;display:grid;place-content:center;text-align:center;padding:28px 10px}.group{color:var(--green);font-size:13px;font-weight:800;letter-spacing:.08em}.word{font-family:Georgia,serif;font-size:clamp(43px,8vw,76px);line-height:1.05;margin:12px 0 4px;word-break:break-word}.ipa{font-size:20px;color:var(--blue);min-height:30px}.pos{display:inline-block;margin-top:9px;padding:4px 9px;border-radius:8px;background:#eef1eb;color:var(--muted)}.meaning{font-size:25px;margin:20px auto 3px;max-width:600px}.hidden{filter:blur(10px);user-select:none;cursor:pointer}.hint{color:var(--muted);font-size:13px}.controls{display:flex;gap:9px;justify-content:center;flex-wrap:wrap}.ratings{display:grid;grid-template-columns:repeat(4,1fr);gap:9px;margin-top:16px}.rate{border:0;border-radius:14px;padding:13px 7px;color:white;cursor:pointer;font-weight:800}.rate small{display:block;font-weight:500;opacity:.85}.forget{background:var(--red)}.vague{background:var(--amber)}.remember{background:var(--blue)}.easy{background:var(--green)}.side{padding:21px;height:max-content}.side h3{margin:0 0 14px}.side section+section{border-top:1px solid var(--line);margin-top:20px;padding-top:20px}.side label{font-size:13px;color:var(--muted);display:block;margin:10px 0 5px}.side select,.side input{width:100%;border:1px solid var(--line);border-radius:12px;padding:11px;background:white}.switch{display:flex;align-items:center;justify-content:space-between;margin:11px 0}.switch input{width:auto}.tip{background:#edf2dc;border-radius:15px;padding:13px;line-height:1.5;font-size:13px;color:#4a584d}.empty{text-align:center;padding:70px 20px}.dictate{font-size:19px;min-height:46px;border:1px solid var(--line);border-radius:12px;padding:10px;text-align:center;margin-top:14px}.library{display:none;margin-top:18px;padding:22px}.library.show{display:block}.libtop{display:flex;gap:10px;flex-wrap:wrap}.libtop input{flex:1;min-width:220px;border:1px solid var(--line);border-radius:13px;padding:11px}.words{display:grid;grid-template-columns:repeat(3,1fr);gap:9px;margin-top:15px;max-height:500px;overflow:auto}.row{padding:12px;border:1px solid var(--line);border-radius:13px}.row b{display:block}.row small{color:var(--muted)}@media(max-width:820px){.layout{grid-template-columns:1fr}.stats{grid-template-columns:repeat(2,1fr)}.side{order:-1}.ratings{grid-template-columns:repeat(2,1fr)}.words{grid-template-columns:1fr 1fr}}@media(max-width:520px){.app{padding:18px 12px}.top{align-items:flex-start}.top .btn{padding:9px 12px}.study{padding:18px;min-height:490px}.words{grid-template-columns:1fr}}
 </style>
-<link rel="stylesheet" href="apple-ui.css?v=20260729-31">
+<link rel="stylesheet" href="apple-ui.css?v=20260730-33">
   <link rel="stylesheet" href="eink-ui.css?v=20260728-5">
 <style>
 body.page-review .hint.is-correct{color:#259b62;font-weight:700}

diff --git a/ielts-video-player.html b/ielts-video-player.html
@@ -5,7 +5,7 @@
   <link rel="manifest" href="manifest.webmanifest"><link rel="icon" href="icon.png" type="image/png"><link rel="apple-touch-icon" href="icon.png">
   <title>课程播放器 · IELTI</title>
   <script>document.documentElement.classList.add('ielti-booting');try{var m=localStorage.getItem('ielti_display_mode_v1')||localStorage.getItem('ielti_theme_v1');if(['light','dark','eink'].indexOf(m)>-1){document.documentElement.dataset.display=m;document.documentElement.dataset.theme=m==='dark'?'dark':'light';document.documentElement.classList.toggle('eink-mode',m==='eink');}}catch(e){}</script>
-  <link rel="stylesheet" href="apple-ui.css?v=20260729-31"><link rel="stylesheet" href="eink-ui.css?v=20260728-5">
+  <link rel="stylesheet" href="apple-ui.css?v=20260730-33"><link rel="stylesheet" href="eink-ui.css?v=20260728-5">
   <style>
     body{margin:0;min-height:100dvh;background:var(--apple-bg);color:var(--apple-ink);font-family:-apple-system,BlinkMacSystemFont,"PingFang SC",sans-serif}.player-wrap{width:min(1120px,100%);margin:auto;padding:clamp(1rem,4vw,2.5rem)}.back{display:inline-flex;margin-bottom:1.1rem;color:var(--apple-blue);text-decoration:none;font-size:.9rem;font-weight:700}.kicker{margin:0 0 .35rem;color:var(--apple-blue);font-size:.72rem;font-weight:850;letter-spacing:.14em}.title{margin:0;font-size:clamp(1.4rem,4vw,2.35rem);letter-spacing:-.035em;line-height:1.13}.video-shell{margin-top:1rem;overflow:hidden;border:1px solid var(--apple-line);border-radius:1.4rem;background:#000;box-shadow:var(--apple-shadow)}video{display:block;width:100%;max-height:calc(100dvh - 13rem);background:#000}.status{margin:.85rem 0 0;color:var(--apple-secondary);font-size:.84rem}.status b{color:var(--apple-ink)}.error{padding:2rem;color:#fff;text-align:center}.error a{color:#8ec9ff}@media(max-width:760px){.player-wrap{padding:.8rem}.video-shell{border-radius:1rem}video{max-height:calc(100dvh - 10rem)}}
   </style>

diff --git a/apple-ui.css b/apple-ui.css
@@ -205,7 +205,7 @@ body.page-roadmap .phase-donut-legend{display:block!important}body.page-roadmap 
 
 /* Homepage hero: playful study invitation, not a dashboard card. */
 body.page-today .hero{
-  --today-blue:#1888ff;
+  --today-blue:#3685fe;
   --today-blue-2:#316ff5;
   --today-violet:#6457e8;
   --today-yellow:#ffdc3f;
@@ -225,7 +225,7 @@ body.page-today .hero{
   background:
     radial-gradient(circle at 88% 12%,rgba(255,255,255,.19) 0 7.4rem,transparent 7.5rem),
     radial-gradient(circle at 98% 96%,rgba(255,255,255,.09) 0 10rem,transparent 10.1rem),
-    linear-gradient(135deg,var(--today-blue) 0%,var(--today-blue-2) 58%,var(--today-violet) 100%)!important;
+    #3685fe!important;
   box-shadow:0 1.35rem 3.8rem rgba(27,101,230,.24)!important;
 }
 body.page-today .hero:before{
@@ -670,6 +670,11 @@ body.page-today .ring b{
 @media(max-width:760px) and (prefers-reduced-motion:reduce){body.apple-ui.apple-nav-hidden .apple-tabbar{transform:none!important;opacity:0!important}}
 
 /* Review study surface: no decorative overlay may sit above the card controls. */
+body.page-review .study{
+  background:
+    radial-gradient(ellipse at 0 0,color-mix(in srgb,var(--apple-blue) 12%,transparent),transparent 46%),
+    linear-gradient(135deg,color-mix(in srgb,var(--apple-blue) 5%,var(--apple-surface)),var(--apple-surface) 52%,color-mix(in srgb,var(--apple-green) 2%,var(--apple-surface)))!important;
+}
 body.page-review .study::before{
   content:none!important;
   display:none!important;

diff --git a/sw.js b/sw.js
@@ -1,4 +1,4 @@
-const CACHE='ielti-shell-v150';
+const CACHE='ielti-shell-v154';
 const SHELL=['./','./index.html','./apple-ui.css','./eink-ui.css','./ielti-config.js','./ielti-core.js','./ielts-roadmap-data.js','./manifest.webmanifest','./icon.png','./icon_local.png','./hero-flowers.png','./ielts-roadmap.html','./ielts-core-vocabulary.html','./ielts-vocabulary-categories.html','./ielts_word_memory_v2_ipa.html','./ielts-video-player.html','./121-letter-combinations.html'];
 self.addEventListener('install',event=>event.waitUntil(caches.open(CACHE).then(cache=>cache.addAll(SHELL))));
 self.addEventListener('activate',event=>event.waitUntil(caches.keys().then(keys=>Promise.all(keys.filter(key=>key!==CACHE).map(key=>caches.delete(key))))));

diff --git a/121-letter-combinations.html b/121-letter-combinations.html
@@ -25,7 +25,7 @@
     @media(prefers-reduced-transparency:reduce){.phonics-card,.study-card,.quiz-box,.mode-bar,.hero,.hero-stat{background:var(--apple-solid);backdrop-filter:none}}
     @media(prefers-contrast:more){.phonics-card,.study-card,.quiz-box,.mode-bar,.hero,.hero-stat,.chip,.review-action,.quiz-choice{border-color:currentColor}}
   </style>
-  <link rel="stylesheet" href="apple-ui.css?v=20260729-31">
+  <link rel="stylesheet" href="apple-ui.css?v=20260730-33">
   <link rel="stylesheet" href="eink-ui.css?v=20260728-5">
 </head>
 <body class="apple-ui page-phonics">

diff --git a/ielts-roadmap.html b/ielts-roadmap.html
@@ -118,7 +118,7 @@ input[type=checkbox]{accent-color:#5B6CF5}
 .postpone-btn { font-size: 12.5px; color: #585885; text-decoration: underline; cursor: pointer; float: right; margin-right: 16px; transition: color .15s; }
 .postpone-btn:hover { color: #5B6CF5; }
 </style>
-<link rel="stylesheet" href="apple-ui.css?v=20260729-31">
+<link rel="stylesheet" href="apple-ui.css?v=20260730-33">
   <link rel="stylesheet" href="eink-ui.css?v=20260728-5">
 </head>
 <body class="apple-ui page-roadmap"><div class="wrap">

diff --git a/ielts-core-vocabulary.html b/ielts-core-vocabulary.html
@@ -68,7 +68,7 @@ body {
 .empty { text-align: center; padding: 60px 0; color: #9898BB; font-size: 14px; }
 .footnote { font-size: 13px; color: #6B5A4E; text-align: left; margin-top: 30px; line-height: 1.9; }
 </style>
-<link rel="stylesheet" href="apple-ui.css?v=20260729-31">
+<link rel="stylesheet" href="apple-ui.css?v=20260730-33">
   <link rel="stylesheet" href="eink-ui.css?v=20260728-14">
 </head>
 <body class="apple-ui page-core"><div class="wrap">

diff --git a/ielts-vocabulary-categories.html b/ielts-vocabulary-categories.html
@@ -123,7 +123,7 @@ main{max-width:920px;margin:0 auto;padding:14px}
   h1{font-size:16px}
 }
 </style>
-<link rel="stylesheet" href="apple-ui.css?v=20260729-31">
+<link rel="stylesheet" href="apple-ui.css?v=20260730-33">
   <link rel="stylesheet" href="eink-ui.css?v=20260728-14">
 </head>
 <body class="apple-ui page-class"><header>
